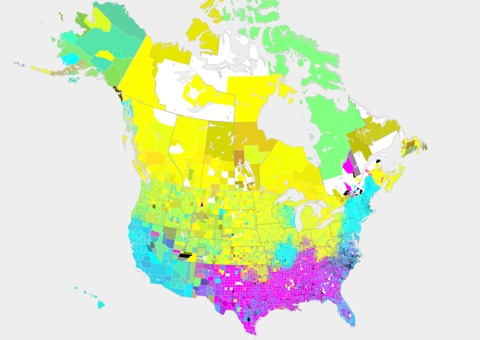
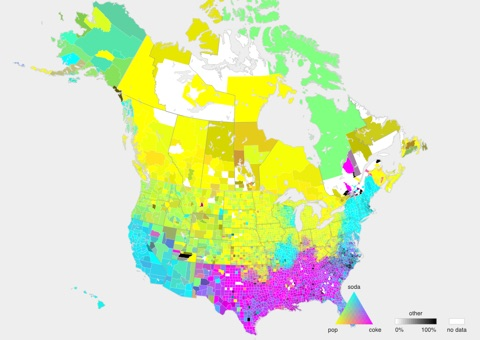
Triangle legends from the original map on the mixed-color and isogloss maps
The maps that mix colors (ZIP Voronoi, ZIP circles, combined counties,
county bubbles in mixed mode) get the main map's triangle legend and
"other" ramp in their bottom-right corner, at the main map's size
(common.js: mixKeyHTML, showMixKey). The isoglosses get a matching
legend: nested corner triangles for the 50/75/90% areas of pop, soda
and coke, drawn in the map's fills and line weights, above which nested
blobs show other's dot patterns and 50% fill. Thumbnails retaken.

Claude-Session: https://claude.ai/code/session_01JpWq1jKXNV9syim92nfxii

Changed region(s): [[0.6875, 0.8235, 0.7812, 1.0], [0.8125, 0.9118, 0.9688, 1.0]]

diff --git a/experiments/common.js b/experiments/common.js
@@ -260,14 +260,67 @@ window.PVS = (function () {
 		return mix(shares);
 	};
 
-	// Key for the mixed colors: the three pure colors, two blends, and "other".
-	function mixKeyHTML() {
-		const item = (shares, label) =>
-			`<span class="key-item"><span class="disc" style="background:${mix({ pop: 0, soda: 0, coke: 0, other: 0, ...shares })};` +
-			`box-shadow:inset 0 0 0 1px rgba(0,0,0,0.3)"></span>${label}</span>`;
-		return item({ pop: 1 }, "Pop") + item({ soda: 1 }, "Soda") + item({ coke: 1 }, "Coke") +
-			item({ pop: 0.5, soda: 0.5 }, "Pop and soda") + item({ soda: 0.5, coke: 0.5 }, "Soda and coke") +
-			item({ pop: 0.5, other: 0.5 }, "Darker: more \"other\"");
+	// Put the triangle legend in the bottom-right corner of a map (open water
+	// in every frame), or hide it.
+	function showMixKey(chart, show = true, opts) {
+		let el = chart.querySelector(".map-key");
+		if (!el) {
+			el = document.createElement("div");
+			el.className = "map-key";
+			el.innerHTML = mixKeyHTML(opts);
+			chart.append(el);
+		}
+		el.hidden = !show;
+	}
+
+	// Key for the mixed colors: the main map's triangle legend (soda at the
+	// top, pop bottom left, coke bottom right, blends in between), a ramp for
+	// how much "other" darkens a color, and optionally a "no data" swatch.
+	function mixKeyHTML({ noData = false } = {}) {
+		const DIV = 10, side = 64, h = (side * Math.sqrt(3)) / 2;
+		const top = [42, 16];
+		const corner = { soda: top, pop: [top[0] - side / 2, top[1] + h], coke: [top[0] + side / 2, top[1] + h] };
+		const at = (i, j) => ({ soda: (DIV - i) / DIV, pop: (i - j) / DIV, coke: j / DIV });
+		const xy = (q) => ["soda", "pop", "coke"].reduce(
+			(acc, t) => [acc[0] + q[t] * corner[t][0], acc[1] + q[t] * corner[t][1]], [0, 0]);
+		const cell = (pts) => {
+			const c = { pop: 0, soda: 0, coke: 0, other: 0 };
+			for (const q of pts) for (const t of ["pop", "soda", "coke"]) c[t] += q[t] / 3;
+			const d = "M" + pts.map((q) => xy(q).map((v) => v.toFixed(1)).join(",")).join("L") + "Z";
+			return `<path d="${d}" fill="${mix(c)}" stroke="${mix(c)}" stroke-width="0.3"/>`;
+		};
+		let cells = "";
+		for (let i = 0; i < DIV; i++) {
+			for (let j = 0; j <= i; j++) {
+				cells += cell([at(i, j), at(i + 1, j), at(i + 1, j + 1)]);
+				if (j < i) cells += cell([at(i, j), at(i, j + 1), at(i + 1, j + 1)]);
+			}
+		}
+		const base = top[1] + h;
+		const label = (x, y, text, anchor = "middle") =>
+			`<text x="${x}" y="${y}" text-anchor="${anchor}">${text}</text>`;
+
+		// "other" ramp, white to black, as on the main map.
+		const rx = 112, rw = 70, rh = 10, ry = base - rh, STEPS = 20;
+		let ramp = "";
+		for (let k = 0; k <= STEPS; k++) {
+			const o = k / STEPS;
+			ramp += `<rect x="${(rx + (k * rw) / (STEPS + 1)).toFixed(1)}" y="${ry}" width="${(rw / (STEPS + 1) + 0.5).toFixed(1)}" height="${rh}" fill="${d3.interpolateRgb("white", "black")(o)}"/>`;
+		}
+		const nd = noData
+			? `<rect x="204" y="${ry}" width="26" height="${rh}" fill="#fff" stroke="#bbb" stroke-width="0.5"/>` + label(217, base + 13, "no data")
+			: "";
+		const width = noData ? 240 : 196;
+		const height = Math.ceil(base + 17);
+		// Sized like the main map's legend: 1.2 × these units in a FRAME-wide map.
+		return `<svg class="mix-key" viewBox="0 0 ${width} ${height}" ` +
+			`style="width:${((width * 1.2) / FRAME.width) * 100}%" role="img" ` +
+			`aria-label="Color key: yellow for pop, cyan for soda, magenta for coke, blended where answers are split, darker with more other answers">` +
+			`<g stroke="none">${cells}</g>` +
+			label(top[0], top[1] - 5, "soda") + label(corner.pop[0] - 4, base + 13, "pop") + label(corner.coke[0] + 4, base + 13, "coke") +
+			ramp + `<rect x="${rx}" y="${ry}" width="${rw}" height="${rh}" fill="none" stroke="#bbb" stroke-width="0.5"/>` +
+			label(rx + rw / 2, ry - 5, "other") + label(rx, base + 13, "0%", "start") + label(rx + rw, base + 13, "100%", "end") +
+			nd + "</svg>";
 	}
 
 	// Swelling state outlines for the bubble maps. Each state starts as its own
@@ -507,6 +560,6 @@ window.PVS = (function () {
 
 	return {
 		TERMS, LABEL, COLOR, STATE_ABBR, BASEMAP, drawBasemap, fmt, pct, loadData, countyRecords, breakdownHTML, makeTooltip, colorKeyHTML,
-		northAmericaProjection, FRAME, usProjection, canadaProjection, regionProjection, mix, mixCounts, mixKeyHTML, swellingOutlines, separateStates,
+		northAmericaProjection, FRAME, usProjection, canadaProjection, regionProjection, mix, mixCounts, mixKeyHTML, showMixKey, swellingOutlines, separateStates,
 	};
 })();

diff --git a/experiments/isoglosses.js b/experiments/isoglosses.js
@@ -108,6 +108,77 @@
 		).join("");
 	const keyBoxes = document.querySelectorAll("#key input[type=checkbox]");
 
+	// The main map's triangle legend, drawn the isogloss way: in the triangle
+	// of pop / soda / coke shares, each term's 50%, 75% and 90% areas are the
+	// nested corner triangles, filled and outlined exactly as on the map. Beside
+	// it, nested blobs show "other": dots at 10%, 25% and 33%, filled above 50%.
+	// Uses the dot patterns from the map's <defs>, so call it after those exist.
+	function addIsoKey() {
+		const width = 150;
+		const text = (x, y, str, anchor = "middle") =>
+			`<text x="${x.toFixed(1)}" y="${y.toFixed(1)}" text-anchor="${anchor}">${str}</text>`;
+
+		// "Other", on top: nested circles, outermost 10%, then 25%, 33% and filled
+		// at 50%. Each sits well off the center of the one around it (but doesn't
+		// touch it), the way the map's nested areas do. Labels sit in a column on
+		// the right, each with a level leader to the edge of its own circle.
+		const ox = 48, oy = 40; // center of the outer circle
+		const rings = [
+			{ l: 0.1, r: 30, x: ox, y: oy, ly: oy - 18 },
+			{ l: 0.25, r: 22, x: ox - 3, y: oy + 4, ly: oy - 7 },
+			{ l: 1 / 3, r: 14, x: ox - 1, y: oy + 8, ly: oy + 4 },
+			{ l: 0.5, r: 7, x: ox - 4, y: oy + 11, ly: oy + 15 },
+		];
+		const circle = (c, attrs) => `<circle cx="${c.x}" cy="${c.y}" r="${c.r}" ${attrs}/>`;
+		let oth = text(ox, 6, "other");
+		rings.forEach((c, k) => {
+			oth += isMinor(c.l)
+				? circle(c, `fill="url(#other-dots-${k})"`)
+				: circle(c, `class="iso-band" fill="${FILL.other}" fill-opacity="${BAND_OPACITY}"`);
+		});
+		for (const c of rings) oth += circle(c, `fill="none" stroke="${LINE.other}" stroke-width="${OTHER_LINE_WIDTH[c.l]}"`);
+		const labelX = ox + 30 + 8;
+		for (const c of rings) {
+			const edge = c.x + Math.sqrt(c.r * c.r - (c.ly - c.y) ** 2);
+			oth += `<line x1="${edge.toFixed(1)}" y1="${c.ly}" x2="${labelX - 2}" y2="${c.ly}" stroke="#999" stroke-width="0.5"/>` +
+				text(labelX, c.ly + 3, levelLabel(c.l), "start");
+		}
+
+		// Pop / soda / coke, below: in the triangle of shares, each term's 50%,
+		// 75% and 90% areas are its nested corner triangles.
+		const side = 76, h = (side * Math.sqrt(3)) / 2;
+		const top = [56, 96], base = top[1] + h;
+		const corner = { soda: top, pop: [top[0] - side / 2, base], coke: [top[0] + side / 2, base] };
+		const at = (q) => ["soda", "pop", "coke"].reduce(
+			(acc, t) => [acc[0] + (q[t] || 0) * corner[t][0], acc[1] + (q[t] || 0) * corner[t][1]], [0, 0]);
+		const pts = (list) => list.map((q) => at(q).map((v) => v.toFixed(1)).join(",")).join(" ");
+		const others = { pop: ["soda", "coke"], soda: ["pop", "coke"], coke: ["pop", "soda"] };
+		let tri = `<polygon points="${pts([{ soda: 1 }, { pop: 1 }, { coke: 1 }])}" fill="#f7f7f7" stroke="#d6d6d6"/>`;
+		for (const t of ["pop", "soda", "coke"]) {
+			for (const l of LEVELS) {
+				const [a, b] = others[t];
+				tri += `<polygon class="iso-band" points="${pts([{ [t]: 1 }, { [t]: l, [a]: 1 - l }, { [t]: l, [b]: 1 - l }])}" ` +
+					`fill="${FILL[t]}" fill-opacity="${BAND_OPACITY}"/>` +
+					`<polyline points="${pts([{ [t]: l, [a]: 1 - l }, { [t]: l, [b]: 1 - l }])}" fill="none" ` +
+					`stroke="${LINE[t]}" stroke-width="${LINE_WIDTH[l]}"/>`;
+			}
+		}
+		tri += text(top[0], top[1] - 5, "soda") + text(corner.pop[0] - 4, base + 13, "pop") +
+			text(corner.coke[0] + 4, base + 13, "coke");
+		for (const l of LEVELS) { // where soda's lines meet the right-hand edge
+			const [x, y] = at({ soda: l, coke: 1 - l });
+			tri += text(x + 4, y + 3, levelLabel(l), "start");
+		}
+
+		const height = Math.ceil(base + 17);
+		const el = document.createElement("div");
+		el.className = "map-key";
+		el.innerHTML = `<svg viewBox="0 0 ${width} ${height}" style="width:${((width * 1.2) / WIDTH) * 100}%" ` +
+			`role="img" aria-label="Key: nested blobs for other at 10, 25, 33 and 50 percent; nested triangles ` +
+			`for where pop, soda or coke reaches 50, 75 and 90 percent">${oth}${tri}</svg>`;
+		chart.append(el);
+	}
+
 	Promise.all([
 		d3.json("../vendor/world-atlas-2.0.2-countries-50m.json"),
 		d3.json("../vendor/naturalearth-5.1.2-admin1-50m-us-canada.geojson"),
@@ -178,6 +249,8 @@
 				}
 			}
 		});
+
+		addIsoKey();
 
 		const base = svg.append("g").attr("class", "basemap");
 		base.append("path").attr("class", "land").attr("d", path(land));

diff --git a/experiments/north-america-counties.html b/experiments/north-america-counties.html
@@ -4,8 +4,8 @@
 	<meta charset="utf-8">
 	<meta name="viewport" content="width=device-width, initial-scale=1">
 	<title>Pop vs Soda North America Counties</title>
-	<link href="../css/style.css?v=2026-11-23f" rel="stylesheet">
-	<link href="experiments.css?v=2026-11-23f" rel="stylesheet">
+	<link href="../css/style.css?v=2026-11-23h" rel="stylesheet">
+	<link href="experiments.css?v=2026-11-23h" rel="stylesheet">
 	<style>
 		.na-units path { stroke: #fff; stroke-width: 0.15px; }
 		.na-lines path { fill: none; pointer-events: none; }
@@ -16,8 +16,8 @@
 	</style>
 	<script src="../vendor/d3.v7.9.0.min.js" defer></script>
 	<script src="../vendor/topojson-client.v3.1.0.min.js" defer></script>
-	<script src="common.js?v=2026-11-23f" defer></script>
-	<script src="north-america-counties.js?v=2026-11-23f" defer></script>
+	<script src="common.js?v=2026-11-23h" defer></script>
+	<script src="north-america-counties.js?v=2026-11-23h" defer></script>
 </head>
 <body>
 	<nav class="nav">
@@ -59,9 +59,6 @@
 			<label for="min">Minimum responses</label>
 			<input type="range" id="min" min="1" max="50" step="1" value="1">
 			<span id="min-value"></span>
-		</div>
-		<div class="key">
-			<span id="color-key"></span>
 		</div>
 	</section>
 </body>

diff --git a/experiments/county-bubbles.js b/experiments/county-bubbles.js
@@ -9,7 +9,7 @@
 (function () {
 	"use strict";
 
-	const { TERMS, LABEL, COLOR, fmt, loadData, breakdownHTML, makeTooltip, mixCounts, mixKeyHTML, swellingOutlines, separateStates, drawBasemap } = PVS;
+	const { TERMS, LABEL, COLOR, fmt, loadData, breakdownHTML, makeTooltip, mixCounts, swellingOutlines, separateStates, drawBasemap } = PVS;
 	// Same colors as the 90% areas on the isogloss map: the CMY fills as they
 	// look after three stacked 30% bands over the land (and a gray for
 	// "other"), outlined in the darker line colors from common.js.
@@ -225,7 +225,8 @@
 		function start() {
 			nodes = blended() ? perCounty : perAnswer;
 			hovered = null;
-			document.getElementById("color-key").innerHTML = blended() ? mixKeyHTML() : termKeyHTML;
+			document.getElementById("color-key").innerHTML = blended() ? "" : termKeyHTML;
+			PVS.showMixKey(document.getElementById("chart"), blended());
 			// A blended circle holds a whole county, so at the same slider
 			// setting it has the area of that county's four separate circles.
 			for (const d of nodes) {

diff --git a/experiments/zip-circles.html b/experiments/zip-circles.html
@@ -4,12 +4,12 @@
 	<meta charset="utf-8">
 	<meta name="viewport" content="width=device-width, initial-scale=1">
 	<title>Pop vs Soda ZIP Circles</title>
-	<link href="../css/style.css?v=2026-11-23f" rel="stylesheet">
-	<link href="experiments.css?v=2026-11-23f" rel="stylesheet">
+	<link href="../css/style.css?v=2026-11-23h" rel="stylesheet">
+	<link href="experiments.css?v=2026-11-23h" rel="stylesheet">
 	<script src="../vendor/d3.v7.9.0.min.js" defer></script>
 	<script src="../vendor/topojson-client.v3.1.0.min.js" defer></script>
-	<script src="common.js?v=2026-11-23f" defer></script>
-	<script src="zip-circles.js?v=2026-11-23f" defer></script>
+	<script src="common.js?v=2026-11-23h" defer></script>
+	<script src="zip-circles.js?v=2026-11-23h" defer></script>
 </head>
 <body>
 	<nav class="nav">
@@ -38,7 +38,6 @@
 		</div>
 		<div class="status" id="status">Loading…</div>
 		<div class="key">
-			<span id="color-key"></span>
 			<span class="key-item" id="size-key"></span>
 		</div>
 		<div class="slider-row">

diff --git a/experiments/north-america-counties.js b/experiments/north-america-counties.js
@@ -7,7 +7,7 @@
 (function () {
 	"use strict";
 
-	const { TERMS, countyRecords, fmt, breakdownHTML, makeTooltip, regionProjection, mixCounts, mixKeyHTML } = PVS;
+	const { TERMS, countyRecords, fmt, breakdownHTML, makeTooltip, regionProjection, mixCounts } = PVS;
 	const { width: WIDTH, height: HEIGHT } = PVS.FRAME;
 	const NO_DATA = "#fff";
 
@@ -16,8 +16,7 @@
 	const statusEl = document.getElementById("status");
 	const minInput = document.getElementById("min");
 	const minValue = document.getElementById("min-value");
-	document.getElementById("color-key").innerHTML = mixKeyHTML() +
-		`<span class="key-item"><span class="disc" style="background:${NO_DATA};box-shadow:inset 0 0 0 1px rgba(0,0,0,0.3)"></span>No data (or too few responses)</span>`;
+	PVS.showMixKey(document.getElementById("chart"), true, { noData: true });
 	const regionInputs = document.querySelectorAll("input[name=region]");
 	const region = () => [...regionInputs].find((el) => el.checked).value;
 

diff --git a/experiments/isoglosses.html b/experiments/isoglosses.html
@@ -4,8 +4,8 @@
 	<meta charset="utf-8">
 	<meta name="viewport" content="width=device-width, initial-scale=1">
 	<title>Pop vs Soda Isoglosses</title>
-	<link href="../css/style.css?v=2026-11-23f" rel="stylesheet">
-	<link href="experiments.css?v=2026-11-23f" rel="stylesheet">
+	<link href="../css/style.css?v=2026-11-23h" rel="stylesheet">
+	<link href="experiments.css?v=2026-11-23h" rel="stylesheet">
 	<style>
 		.iso-band { mix-blend-mode: multiply; }
 		.iso-line { fill: none; stroke-linejoin: round; }
@@ -16,8 +16,8 @@
 	</style>
 	<script src="../vendor/d3.v7.9.0.min.js" defer></script>
 	<script src="../vendor/topojson-client.v3.1.0.min.js" defer></script>
-	<script src="common.js?v=2026-11-23f" defer></script>
-	<script src="isoglosses.js?v=2026-11-23f" defer></script>
+	<script src="common.js?v=2026-11-23h" defer></script>
+	<script src="isoglosses.js?v=2026-11-23l" defer></script>
 </head>
 <body>
 	<nav class="nav">

diff --git a/index.html b/index.html
@@ -5,11 +5,11 @@
 	<meta name="viewport" content="width=device-width, initial-scale=1">
 	<title>The Pop vs. Soda Page</title>
 	<meta name="description" content="A map of the geographic distribution of the terms &quot;pop&quot;, &quot;soda&quot; and &quot;coke&quot; used to describe carbonated soft drinks in the United States.">
-	<link href="css/style.css?v=2026-11-23f" rel="stylesheet">
+	<link href="css/style.css?v=2026-11-23g" rel="stylesheet">
 	<script src="vendor/d3.v7.9.0.min.js" defer></script>
 	<script src="vendor/topojson-client.v3.1.0.min.js" defer></script>
-	<script src="js/map.js?v=2026-11-23f" defer></script>
-	<script src="js/tabs.js?v=2026-11-23f" defer></script>
+	<script src="js/map.js?v=2026-11-23g" defer></script>
+	<script src="js/tabs.js?v=2026-11-23g" defer></script>
 </head>
 <body>
 	<header>

diff --git a/experiments/county-bubbles.html b/experiments/county-bubbles.html
@@ -4,12 +4,12 @@
 	<meta charset="utf-8">
 	<meta name="viewport" content="width=device-width, initial-scale=1">
 	<title>Pop vs Soda County Bubbles</title>
-	<link href="../css/style.css?v=2026-11-23f" rel="stylesheet">
-	<link href="experiments.css?v=2026-11-23f" rel="stylesheet">
+	<link href="../css/style.css?v=2026-11-23h" rel="stylesheet">
+	<link href="experiments.css?v=2026-11-23h" rel="stylesheet">
 	<script src="../vendor/d3.v7.9.0.min.js" defer></script>
 	<script src="../vendor/topojson-client.v3.1.0.min.js" defer></script>
-	<script src="common.js?v=2026-11-23f" defer></script>
-	<script src="county-bubbles.js?v=2026-11-23f" defer></script>
+	<script src="common.js?v=2026-11-23h" defer></script>
+	<script src="county-bubbles.js?v=2026-11-23h" defer></script>
 </head>
 <body>
 	<nav class="nav">

diff --git a/experiments/state-donuts.html b/experiments/state-donuts.html
@@ -4,12 +4,12 @@
 	<meta charset="utf-8">
 	<meta name="viewport" content="width=device-width, initial-scale=1">
 	<title>Pop vs Soda State Donuts</title>
-	<link href="../css/style.css?v=2026-11-23f" rel="stylesheet">
-	<link href="experiments.css?v=2026-11-23f" rel="stylesheet">
+	<link href="../css/style.css?v=2026-11-23h" rel="stylesheet">
+	<link href="experiments.css?v=2026-11-23h" rel="stylesheet">
 	<script src="../vendor/d3.v7.9.0.min.js" defer></script>
 	<script src="../vendor/topojson-client.v3.1.0.min.js" defer></script>
-	<script src="common.js?v=2026-11-23f" defer></script>
-	<script src="state-donuts.js?v=2026-11-23f" defer></script>
+	<script src="common.js?v=2026-11-23h" defer></script>
+	<script src="state-donuts.js?v=2026-11-23h" defer></script>
 </head>
 <body>
 	<nav class="nav">

diff --git a/experiments/hex-bubbles.html b/experiments/hex-bubbles.html
@@ -4,12 +4,12 @@
 	<meta charset="utf-8">
 	<meta name="viewport" content="width=device-width, initial-scale=1">
 	<title>Pop vs Soda Hex Bubbles</title>
-	<link href="../css/style.css?v=2026-11-23f" rel="stylesheet">
-	<link href="experiments.css?v=2026-11-23f" rel="stylesheet">
+	<link href="../css/style.css?v=2026-11-23h" rel="stylesheet">
+	<link href="experiments.css?v=2026-11-23h" rel="stylesheet">
 	<script src="../vendor/d3.v7.9.0.min.js" defer></script>
 	<script src="../vendor/topojson-client.v3.1.0.min.js" defer></script>
-	<script src="common.js?v=2026-11-23f" defer></script>
-	<script src="hex-bubbles.js?v=2026-11-23f" defer></script>
+	<script src="common.js?v=2026-11-23h" defer></script>
+	<script src="hex-bubbles.js?v=2026-11-23h" defer></script>
 </head>
 <body>
 	<nav class="nav">

diff --git a/experiments/zip-voronoi.html b/experiments/zip-voronoi.html
@@ -4,12 +4,12 @@
 	<meta charset="utf-8">
 	<meta name="viewport" content="width=device-width, initial-scale=1">
 	<title>Pop vs Soda ZIP Voronoi</title>
-	<link href="../css/style.css?v=2026-11-23f" rel="stylesheet">
-	<link href="experiments.css?v=2026-11-23f" rel="stylesheet">
+	<link href="../css/style.css?v=2026-11-23h" rel="stylesheet">
+	<link href="experiments.css?v=2026-11-23h" rel="stylesheet">
 	<script src="../vendor/d3.v7.9.0.min.js" defer></script>
 	<script src="../vendor/topojson-client.v3.1.0.min.js" defer></script>
-	<script src="common.js?v=2026-11-23f" defer></script>
-	<script src="zip-voronoi.js?v=2026-11-23f" defer></script>
+	<script src="common.js?v=2026-11-23h" defer></script>
+	<script src="zip-voronoi.js?v=2026-11-23h" defer></script>
 </head>
 <body>
 	<nav class="nav">
